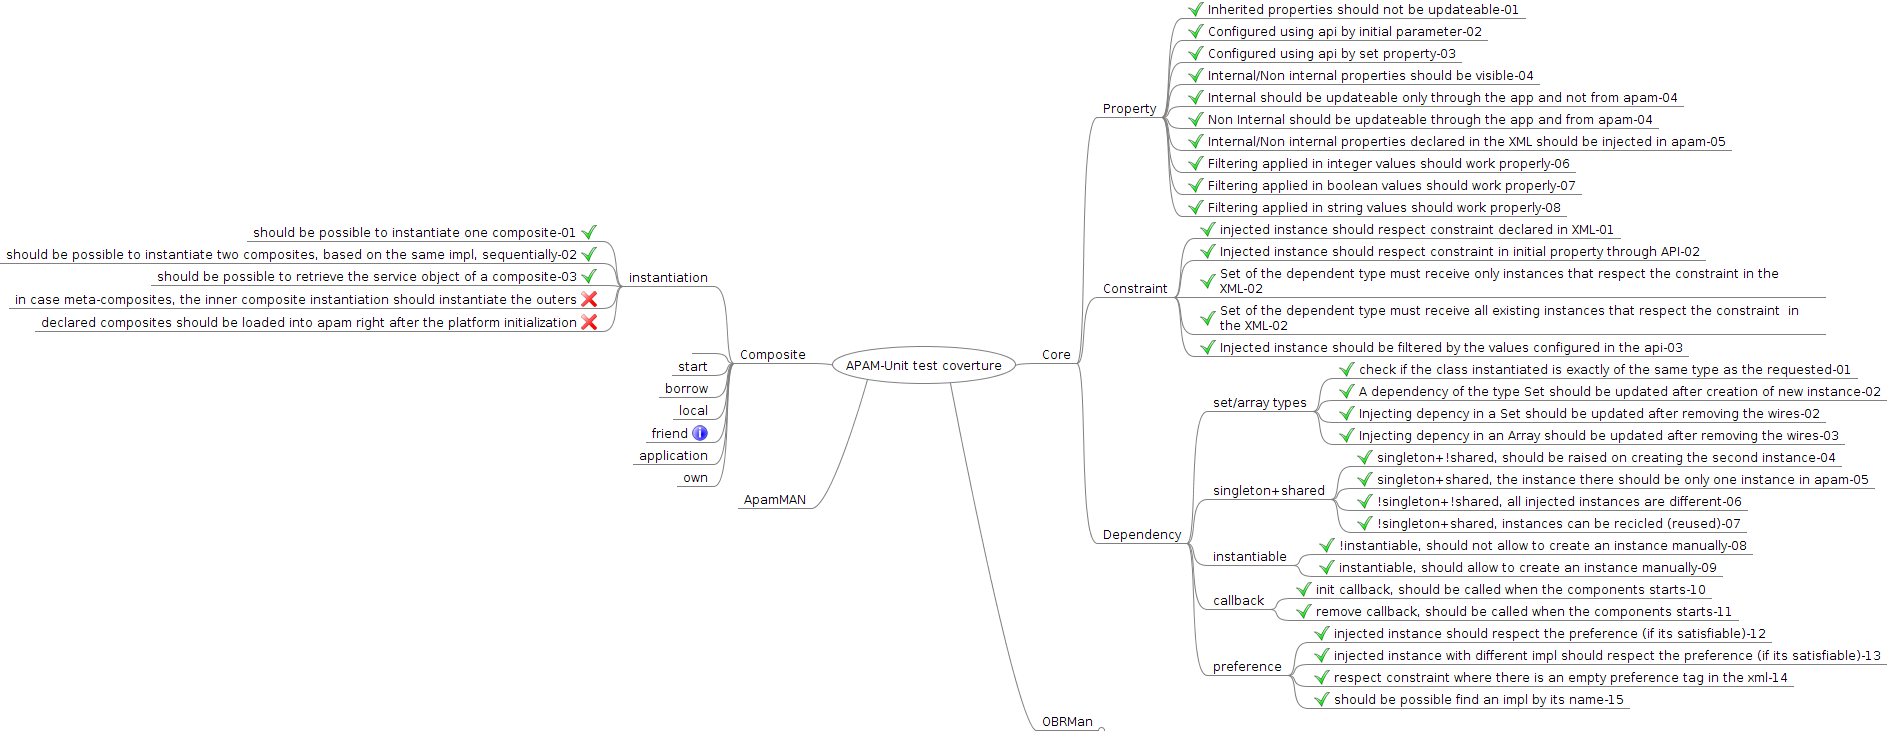
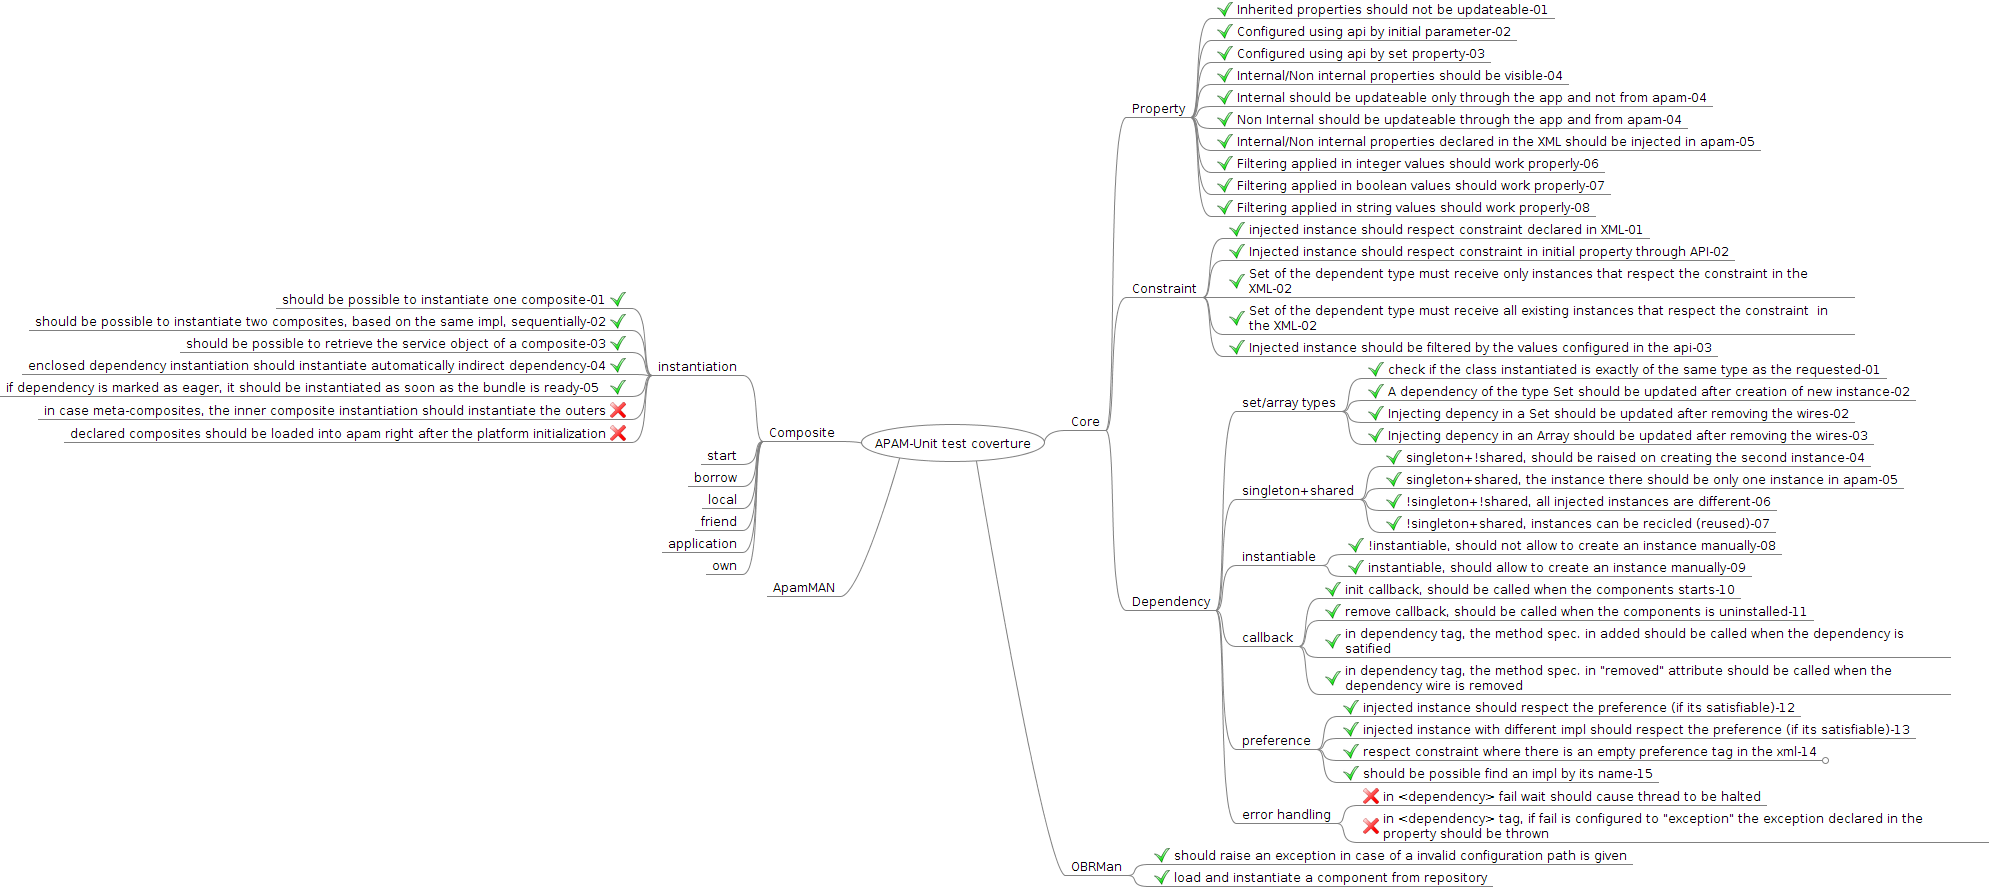
adding test for callback in the dependency tag

Changed region(s): [[0.3381, 0.0, 1.0, 1.0], [0.0, 0.301, 0.3688, 0.5116], [0.5533, 0.6621, 0.6147, 0.6922]]

diff --git a/documentations/technical/test-coverture/APAM-UnitTest-Coverture-OnFreeMindApp.mm b/documentations/technical/test-coverture/APAM-UnitTest-Coverture-OnFreeMindApp.mm
@@ -95,6 +95,12 @@
 <node CREATED="1353075141416" ID="ID_384580446" MODIFIED="1353085786890" TEXT="remove callback, should be called when the components is uninstalled-11">
 <icon BUILTIN="button_ok"/>
 </node>
+<node CREATED="1353422621394" ID="ID_1384277878" MODIFIED="1353422757933" TEXT="in dependency tag, the method spec. in added should be called when the dependency is satified">
+<icon BUILTIN="button_ok"/>
+</node>
+<node CREATED="1353422670626" ID="ID_1652284443" MODIFIED="1353422762997" TEXT="in dependency tag, the method spec. in &quot;removed&quot; attribute should be called when the dependency wire is removed">
+<icon BUILTIN="button_ok"/>
+</node>
 </node>
 <node CREATED="1353075257352" ID="ID_1845106728" MODIFIED="1353316551326" TEXT="preference">
 <node CREATED="1353075782472" ID="ID_1933538834" MODIFIED="1353076608931" TEXT="injected instance should respect the preference (if its satisfiable)-12">
@@ -147,13 +153,10 @@
 <icon BUILTIN="button_cancel"/>
 </node>
 </node>
-<node CREATED="1353077038120" ID="ID_1357881613" MODIFIED="1353077290758" TEXT=""/>
 <node CREATED="1353077178936" ID="ID_817521693" MODIFIED="1353077182374" TEXT="start"/>
 <node CREATED="1353077184248" ID="ID_914230240" MODIFIED="1353077186598" TEXT="borrow"/>
 <node CREATED="1353077190840" ID="ID_1475045056" MODIFIED="1353077192166" TEXT="local"/>
-<node CREATED="1353077196808" ID="ID_1525157524" MODIFIED="1353077213100" TEXT="friend">
-<icon BUILTIN="info"/>
-</node>
+<node CREATED="1353077196808" ID="ID_1525157524" MODIFIED="1353416497236" TEXT="friend"/>
 <node CREATED="1353077202712" ID="ID_1802016001" MODIFIED="1353077204742" TEXT="application"/>
 <node CREATED="1353077208472" ID="ID_1719755842" MODIFIED="1353077210118" TEXT="own"/>
 </node>

diff --git a/tests/services/pax-test/src/test/java/fr/imag/adele/apam/test/testcases/InjectionInstantiationTest.java b/tests/services/pax-test/src/test/java/fr/imag/adele/apam/test/testcases/InjectionInstantiationTest.java
@@ -589,6 +589,31 @@ public class InjectionInstantiationTest extends ExtensionAbstract {
 		Assert.assertTrue("Should be possible to find an implementation by using its name.",impl!=null);
 	}
 	
+	@Test
+	public void AddedRemovedCallbackInDependencyDeclaration_16(){
+		
+		String message="Into an <implementation>, when declaring a dependency, we may specify methods to be called as soon as the dependency is wired or unwired, those are 'added' and 'removed' attributes respectively. %s";
+		
+		Implementation impl=CST.apamResolver.findImplByName(null,"S1Impl-added-removed-callback");
+		apam.waitForIt(Constants.CONST_WAIT_TIME);
+		
+		Instance instance=impl.createInstance(null, new HashMap<String, String>());
+		
+		S1Impl s1=(S1Impl)instance.getServiceObject();
+		
+		Assert.assertTrue(String.format(message, "Although 'added' method should not be called before the resolution of the dependency"),s1.getIsOnInitCallbackCalled()==false);
+		Assert.assertTrue(String.format(message, "Although 'remove' method should not be called before the resolution of the dependency"),s1.getIsOnRemoveCallbackCalled()==false);
+		
+		s1.getS2();
+		
+		Assert.assertTrue(String.format(message, "Although 'added' method was not called during the wiring process(dependency resolution)"),s1.getIsOnInitCallbackCalled()==true);
+		
+		auxDisconectWires(instance);
+		
+		Assert.assertTrue(String.format(message, "Although 'remove' method was not called during the unwiring process"),s1.getIsOnRemoveCallbackCalled()==true);
+
+	}	
+	
 }
 // Apam apam = (Apam) help.getServiceObject(Apam.class.getName(), null);
 // CST.componentBroker.getInstService(s3bis) ;

diff --git a/tests/services/pax-test/src/test/java/fr/imag/adele/apam/test/support/AllTests.java b/tests/services/pax-test/src/test/java/fr/imag/adele/apam/test/support/AllTests.java
@@ -9,14 +9,9 @@ import fr.imag.adele.apam.test.testcases.ConstraintTest;
 import fr.imag.adele.apam.test.testcases.InjectionInstantiationTest;
 import fr.imag.adele.apam.test.testcases.PropertyTest;
 
-
-
 @RunWith(Suite.class)
-@SuiteClasses({ 
-	CompositeTest.class,
-	ConstraintTest.class, 
-	InjectionInstantiationTest.class, 
-	PropertyTest.class} )
+@SuiteClasses({ CompositeTest.class, ConstraintTest.class,
+		InjectionInstantiationTest.class, PropertyTest.class })
 public class AllTests {
 
 }

diff --git a/tests/services/pax-test/src/test/java/fr/imag/adele/apam/test/testcases/CompositeTest.java b/tests/services/pax-test/src/test/java/fr/imag/adele/apam/test/testcases/CompositeTest.java
@@ -15,7 +15,6 @@ import fr.imag.adele.apam.Implementation;
 import fr.imag.adele.apam.Instance;
 import fr.imag.adele.apam.ManagerModel;
 import fr.imag.adele.apam.pax.test.device.DeadsManSwitch;
-import fr.imag.adele.apam.pax.test.impl.S2Impl;
 import fr.imag.adele.apam.pax.test.impl.S2InnerImpl;
 import fr.imag.adele.apam.pax.test.impl.S2MiddleImpl;
 import fr.imag.adele.apam.pax.test.impl.S2OutterImpl;

diff --git a/tests/services/app/apam-pax-samples-impl-s1/src/main/java/fr/imag/adele/apam/pax/test/impl/S1Impl.java b/tests/services/app/apam-pax-samples-impl-s1/src/main/java/fr/imag/adele/apam/pax/test/impl/S1Impl.java
@@ -142,4 +142,20 @@ public class S1Impl implements S1
 		this.context = context;
 	}
 
+	public S2 getS2() {
+		return s2;
+	}
+
+	public void setS2(S2 s2) {
+		this.s2 = s2;
+	}
+
+	public S3 getS3() {
+		return s3;
+	}
+
+	public void setS3(S3 s3) {
+		this.s3 = s3;
+	}
+
 }
